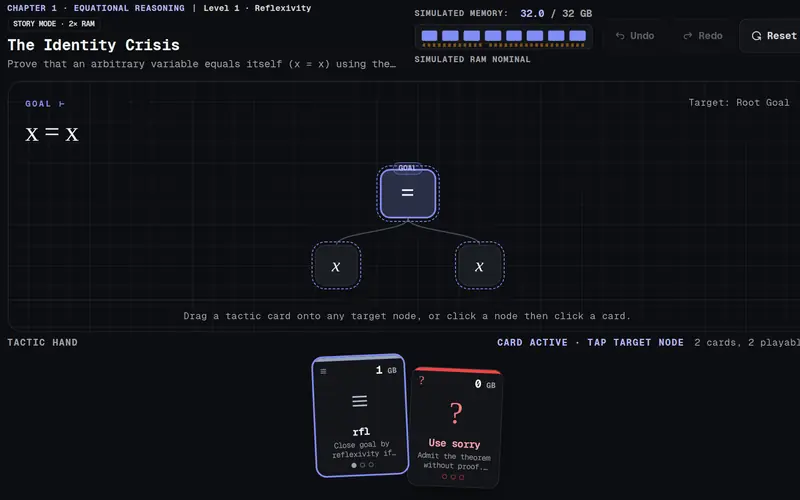
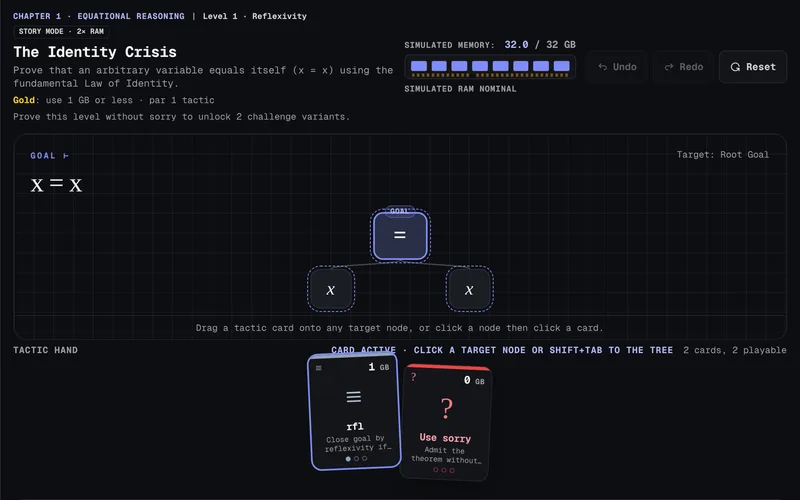
fix(quasi): honest rfl, compact iPad portrait hand, fresh hub preview (#2294)
<!-- claude-projects-attribution: {"github_login":"fderuiter"} -->
_Requested by **Fred de Ruiter Fredde** · [project
thread](https://claude.ai/code/project/chan_01VuCKCKra9y9YSXcrmsTYAn?thread=cmsg_01VuCKCKra9y9YSXcrmsTYAnBN62jX4F1kksyWzway7wyM)_

## Summary

**Before:** `rfl` rejected `x + 0 = x`, which Lean accepts for Nat. On
iPad portrait, a crowded 8-card tactic hand (L23, L28, L30) ran off both
screen edges. The arcade hub preview still showed the old "Tap Target
Node" desktop hint.

**After:** `rfl` reduces by definition on the second argument (`e + 0 →
e`, `e * 0 → 0`), and a failed closed-numeral `rfl` says what the left
side evaluates to. The decoy `rfl` is gone from L5's hand. The iPad
portrait hand fits inside 820px (x 26–794), with 44px targets and 12px
text. The hub preview is a fresh capture.

**How:**
- `reduceByDefinition` in `lib/quasi-perfect/tactics.ts`.
- A `.qp-card-compact` touch rule in `app/arcade/arcade.css`, which was
being overridden by the general touch card size.
- A re-captured `public/images/arcade/previews/quasi-puzzler.webp`.

This is the patch saved at the 10-15 wrap-up (#2290), applied unchanged
on current main.

Fixes #2277
Fixes #2278
Fixes #2279

## Target branch

- [x] Normal topic or hotfix PR into `main` (squash merge)

## Verification

- [x] `npm run quality`. All of these passed on this branch:
  - `check`, `lint:docs`, `check-docs-drift`
  - `audit:licenses`, `audit:secrets`
  - `audit:a11y`, 25/25 after `next build`
[…]

diff --git a/__tests__/quasi-puzzler-rfl-tablet-hand.test.tsx b/__tests__/quasi-puzzler-rfl-tablet-hand.test.tsx
@@ -1,0 +1,69 @@
+// @vitest-environment jsdom
+import React from "react";
+import { render, cleanup } from "@testing-library/react";
+import { describe, it, expect, afterEach } from "vitest";
+import { TacticCard } from "@/components/QuasiPerfectPuzzler/TacticCard";
+import { parseFormula, puzzleLevels, tacticDefs } from "@/lib/quasi-perfect";
+
+const rfl = (text: string) => {
+  const goal = parseFormula(text, "t");
+  return tacticDefs.rfl.execute(goal, goal, []);
+};
+
+describe("Quasi Puzzler rfl honesty and tablet hand (#2277, #2278)", () => {
+  afterEach(cleanup);
+
+  it("closes what Nat reduces by definition, as Lean's rfl does (#2277)", () => {
+    expect(rfl("x + 0 = x").success).toBe(true);
+    expect(rfl("x + 0 = x").isProofComplete).toBe(true);
+    expect(rfl("n * 0 = 0").success).toBe(true);
+    expect(rfl("(a + b) + 0 = a + b").success).toBe(true);
+  });
+
+  it("still needs a lemma for 0 + x = x, as Lean does (#2277)", () => {
+    const result = rfl("0 + x = x");
+    expect(result.success).toBe(false);
+    expect(result.message).toMatch(/type mismatch/);
+  });
+
+  it("says what a false closed sum evaluates to (#2277)", () => {
+    const result = rfl("3 + 7 = 11");
+    expect(result.success).toBe(false);
+    expect(result.message).toBe(
+      "error: 'rfl' failed: 3 + 7 evaluates to 10, not 11."
+    );
+  });
+
+  it("drops the decoy rfl from Level 5's hand (#2277)", () => {
+    const level5 = puzzleLevels.find((l) => l.id === 5)!;
+    const ids = level5.availableTactics.map((t) =>
+      typeof t === "string" ? t : t.id
+    );
+    expect(ids).not.toContain("rfl");
+    expect(ids).toEqual(expect.arrayContaining(["rw", "simp"]));
+  });
+
+  it("marks compact cards so a crowded touch hand can shrink them (#2278)", () => {
+    const { container, rerender } = render(
+      <TacticCard
+        tactic={tacticDefs.induction}
+        isSelected={false}
+        disabled={false}
+        compact
+        onSelect={() => {}}
+      />
+    );
+    const card = () =>
+      container.querySelector("[data-tactic-id]") as HTMLElement;
+    expect(card().className).toContain("qp-card-compact");
+    rerender(
+      <TacticCard
+        tactic={tacticDefs.induction}
+        isSelected={false}
+        disabled={false}
+        onSelect={() => {}}
+      />
+    );
+    expect(card().className).not.toContain("qp-card-compact");
+  });
+});

diff --git a/lib/quasi-perfect/tactics.ts b/lib/quasi-perfect/tactics.ts
@@ -22,6 +22,24 @@ import {
 import { parseFormulaWithError } from "./compiler";
 
 /**
+ * Unfolds the Nat definitions Lean's `rfl` sees through: addition and
+ * multiplication recurse on their second argument, so `e + 0` is `e` and
+ * `e * 0` is `0` by definition (#2277). Nothing else is reduced, so `0 + e`
+ * still needs a lemma, as it does in Lean.
+ */
+function reduceByDefinition(node: ASTNode): ASTNode {
+  if (!node.children || node.children.length === 0) return node;
+  const children = node.children.map(reduceByDefinition);
+  if (node.type === "Operator" && children.length === 2) {
+    const [lhs, rhs] = children;
+    const rhsIsZero = rhs.type === "Constant" && Number(rhs.value) === 0;
+    if (rhsIsZero && node.value === "+") return lhs;
+    if (rhsIsZero && (node.value === "*" || node.value === "×")) return rhs;
+  }
+  return { ...node, children };
+}
+
+/**
  * Resolves a hypothesis from context using LIFO (reverse array search) order.
  * Tier 1: Searches by metadata.name (case-insensitive) or node id in reverse order.
  * Tier 2: Structural predicate fallback searching in reverse order.
@@ -82,7 +100,10 @@ export const tacticDefs: Record<TacticId, TacticDef> = {
       const rightValue = evaluateArithmetic(right);
       const closedEqual =
         leftValue !== null && rightValue !== null && leftValue === rightValue;
-      if (closedEqual || areNodesEqual(left, right)) {
+      if (
+        closedEqual ||
+        areNodesEqual(reduceByDefinition(left), reduceByDefinition(right))
+      ) {
         const trueNode: ASTNode = {
           id: `qed-${Date.now()}`,
           type: "Boolean",
@@ -96,6 +117,16 @@ export const tacticDefs: Record<TacticId, TacticDef> = {
           leanProofStep: "rfl",
           message: "tactic 'rfl' succeeded: equality proven by reflexivity.",
           isProofComplete: newAST.type === "Boolean" && newAST.value === true,
+        };
+      }
+
+      // Closed numerals that disagree fail on arithmetic, not on shape
+      // (#2277): say what the left side actually evaluates to.
+      if (leftValue !== null && rightValue !== null) {
+        return {
+          success: false,
+          ramConsumed: tacticDefs.rfl.failureCost,
+          message: `error: 'rfl' failed: ${renderASTString(left)} evaluates to ${leftValue}, not ${rightValue}.`,
         };
       }
 

diff --git a/components/QuasiPerfectPuzzler/TacticCard.tsx b/components/QuasiPerfectPuzzler/TacticCard.tsx
@@ -64,7 +64,7 @@ export const TacticCard: React.FC<TacticCardProps> = ({
       data-banned={banned ? "true" : undefined}
       data-selected={isSelected ? "true" : undefined}
       className={`qp-card qp-focus relative flex flex-col overflow-hidden rounded-xl font-mono select-none shadow-[0_10px_24px_-14px_rgba(0,0,0,0.9)] ${
-        compact ? "h-[128px] w-[96px]" : "h-[140px] w-[108px]"
+        compact ? "qp-card-compact h-[128px] w-[96px]" : "h-[140px] w-[108px]"
       } ${
         banned
           ? "grayscale cursor-not-allowed"
@@ -125,7 +125,7 @@ export const TacticCard: React.FC<TacticCardProps> = ({
         {art.glyph}
       </div>
 
-      <div className="px-2 pb-2">
+      <div className="qp-card-foot px-2 pb-2">
         <span
           // Long names such as trans [succ_le_double] wrap to two lines
           // instead of being cut off (#2249).

diff --git a/app/arcade/arcade.css b/app/arcade/arcade.css
@@ -1112,6 +1112,16 @@
   width: 7.5rem;
   height: 9.75rem;
 }
+/* A crowded hand on a narrow tablet (iPad portrait, 7+ cards) keeps the
+   compact width so the fan fits on screen; the labels stay 12px and wrap
+   (#2278). */
+.qp-root.qp-touch .qp-card.qp-card-compact {
+  width: 6rem;
+  height: 9.25rem;
+}
+.qp-root.qp-touch .qp-card-compact .qp-card-foot {
+  padding-inline: 0.25rem;
+}
 /* On a short landscape screen (iPad mini, iPad Air) the two drawers sit side
    by side, without the "Expand Drawer" words (the chevron and aria-expanded
    still say it), so the board keeps a drawer row's worth of height. */

diff --git a/lib/quasi-perfect/levels.ts b/lib/quasi-perfect/levels.ts
@@ -362,7 +362,6 @@ export const puzzleLevels: PuzzlerLevelDef[] = [
     availableTactics: [
       { id: "rw", hypothesis: "add_zero", labelOverride: "rw [add_zero]" },
       "simp",
-      "rfl",
       "sorry",
     ],
     hints: [
